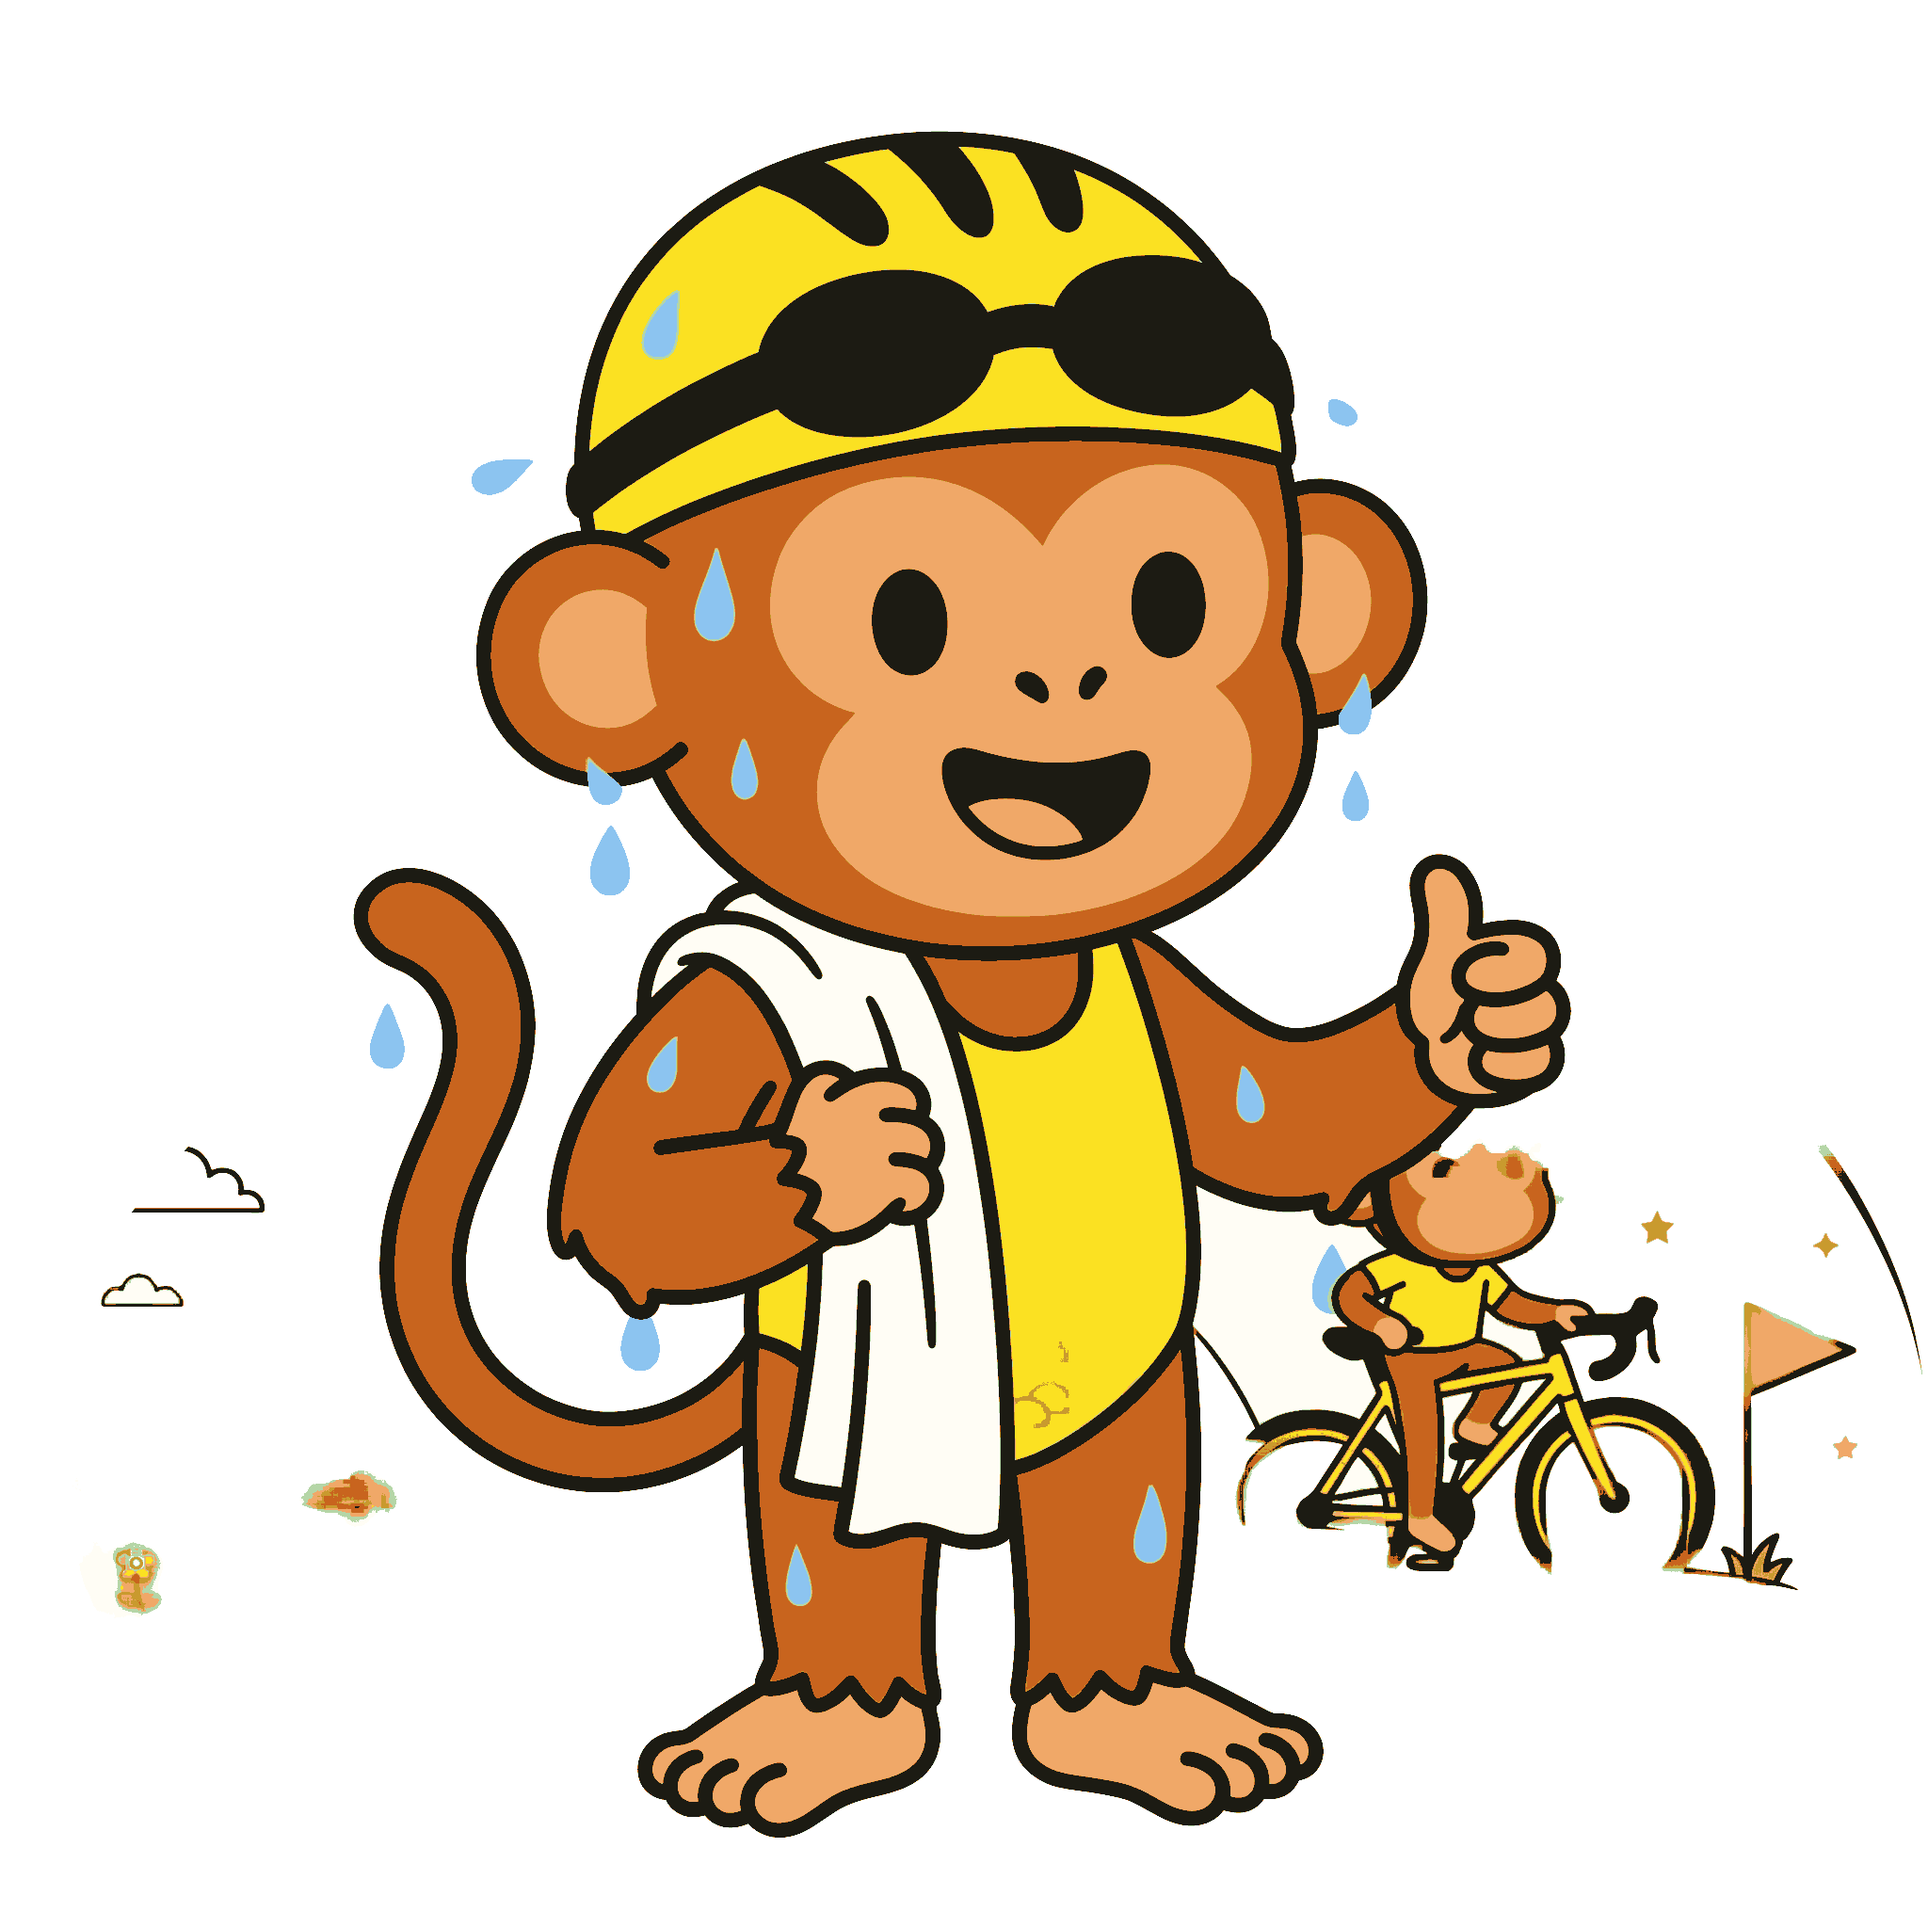
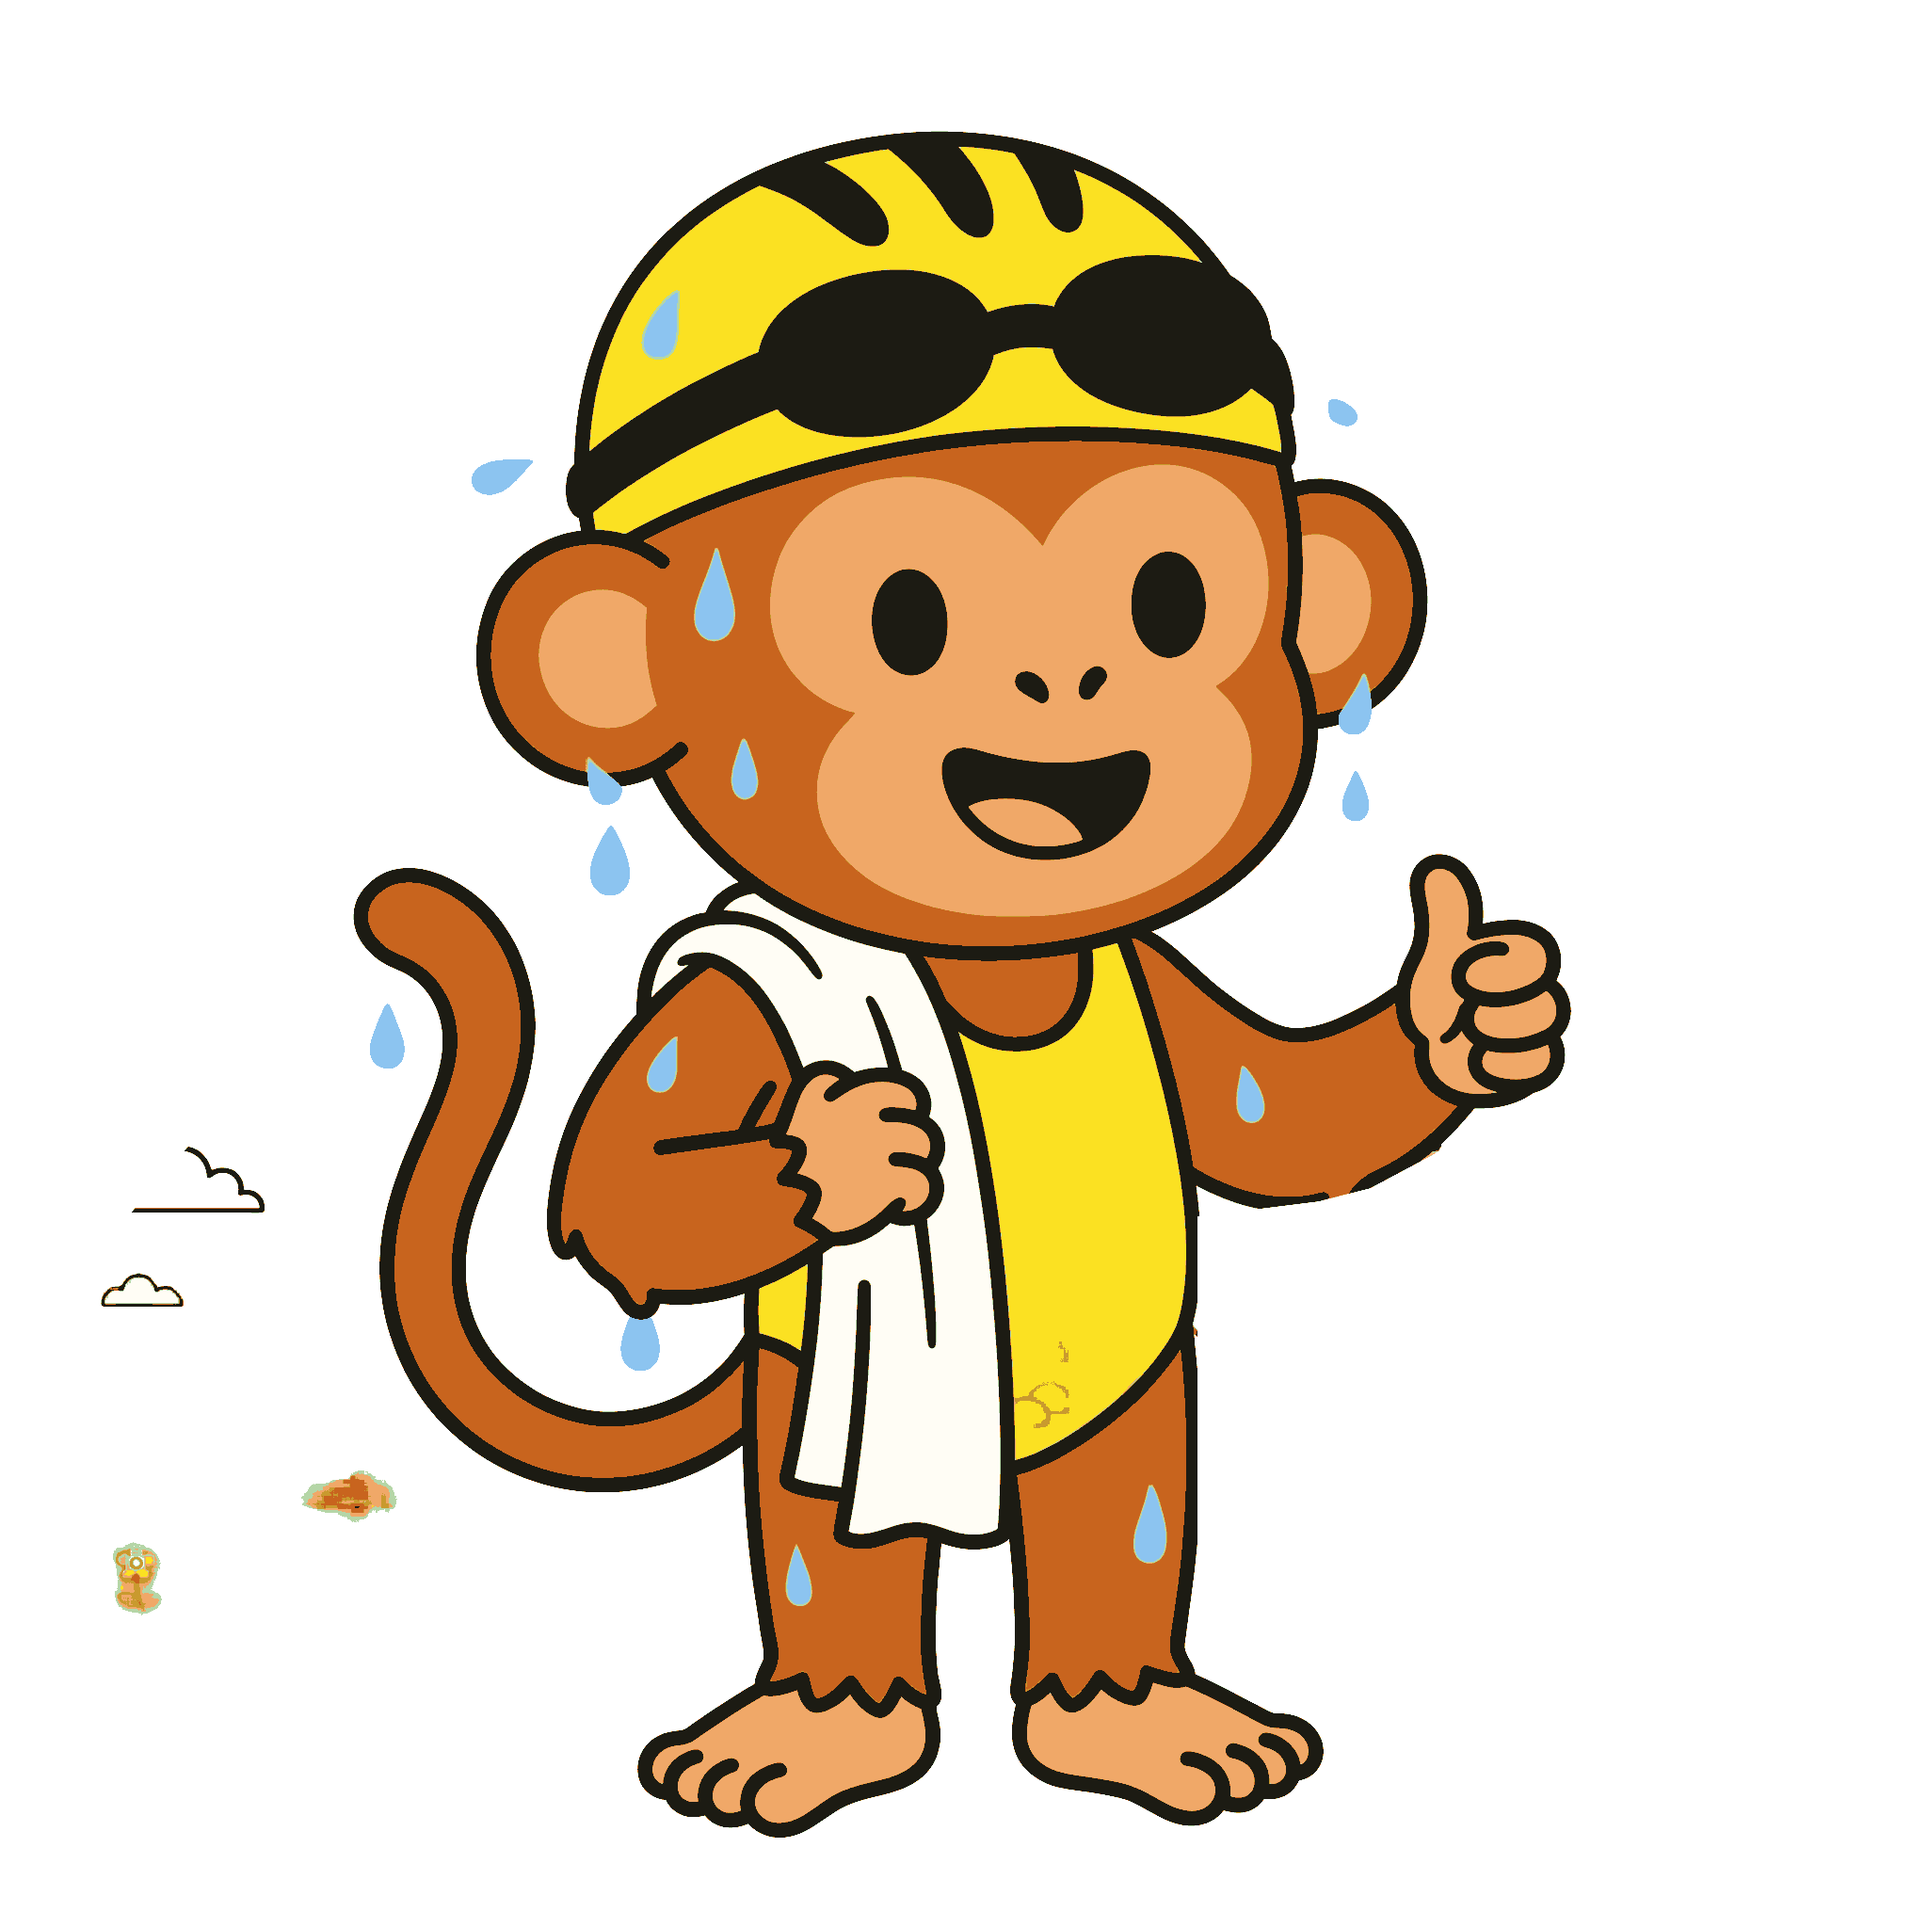
fix: keep the background cyclist out of the swim monkey
The swim picture was cleaned by hand in Inkscape, which the rebuild
undid. The cyclist touching Rynke's arm is now painted out of the
original, and an erase box drops the doodles on the left, so a rebuild
keeps it clean.

Changed region(s): [[0.625, 0.5938, 0.9688, 0.8438], [0.9375, 0.5938, 1.0, 0.6562]]

diff --git a/src/http/art-versions.ts b/src/http/art-versions.ts
@@ -170,7 +170,7 @@ export const ART_VERSIONS: Readonly<Record<string, string>> = {
 	"/quotes/point.svg": "f03fea381a",
 	"/quotes/rain.svg": "1ed351ac56",
 	"/quotes/run.svg": "ecd62ea929",
-	"/quotes/swim.svg": "d90fb8b3d1",
+	"/quotes/swim.svg": "200c2b28f6",
 	"/quotes/thumbs.svg": "28f36c614a",
 	"/quotes/valentine.svg": "58e816c9e8",
 	"/quotes/wave.svg": "2fabcdffb6",
